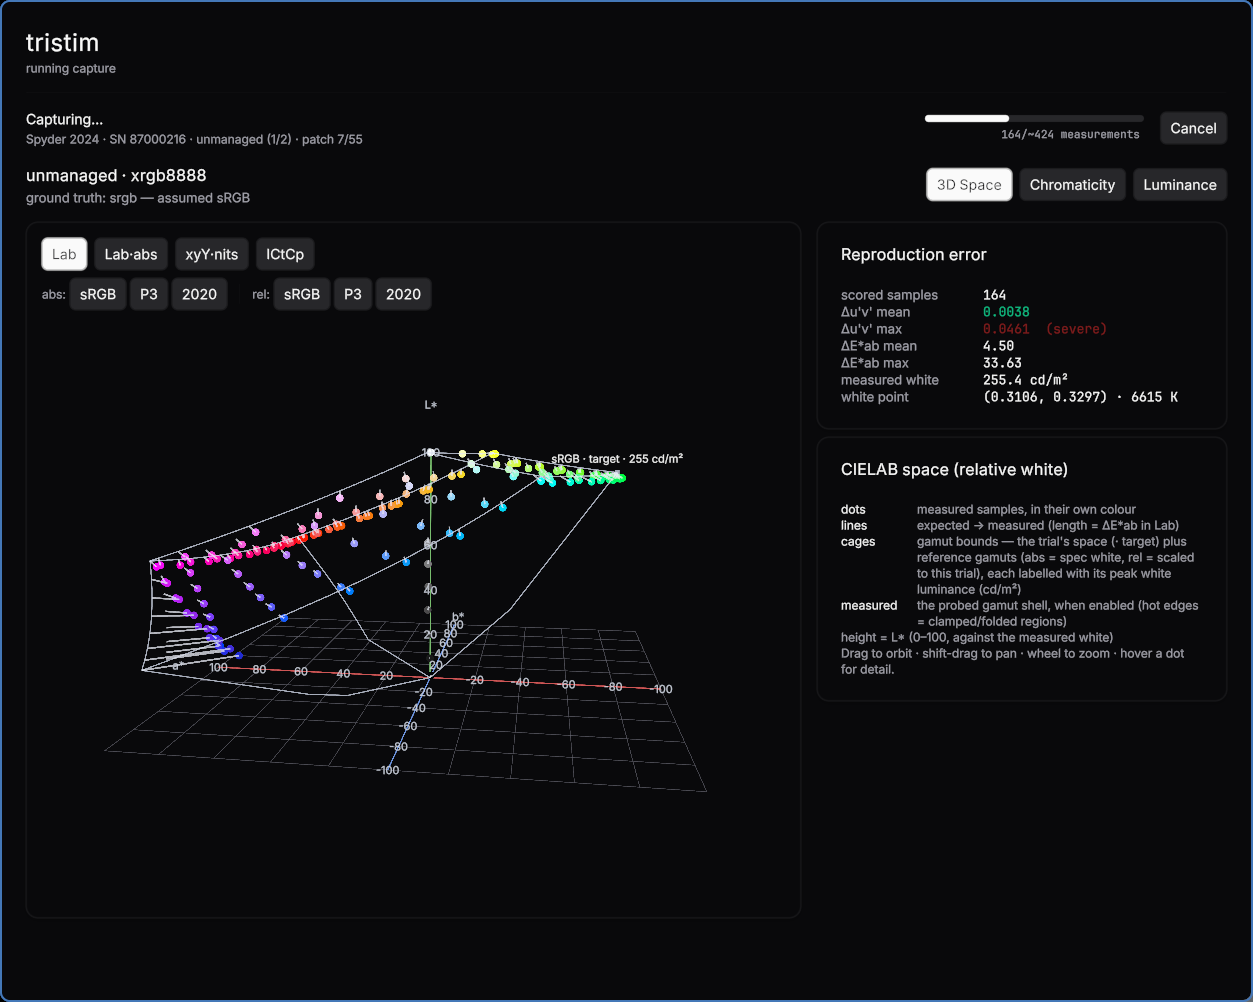
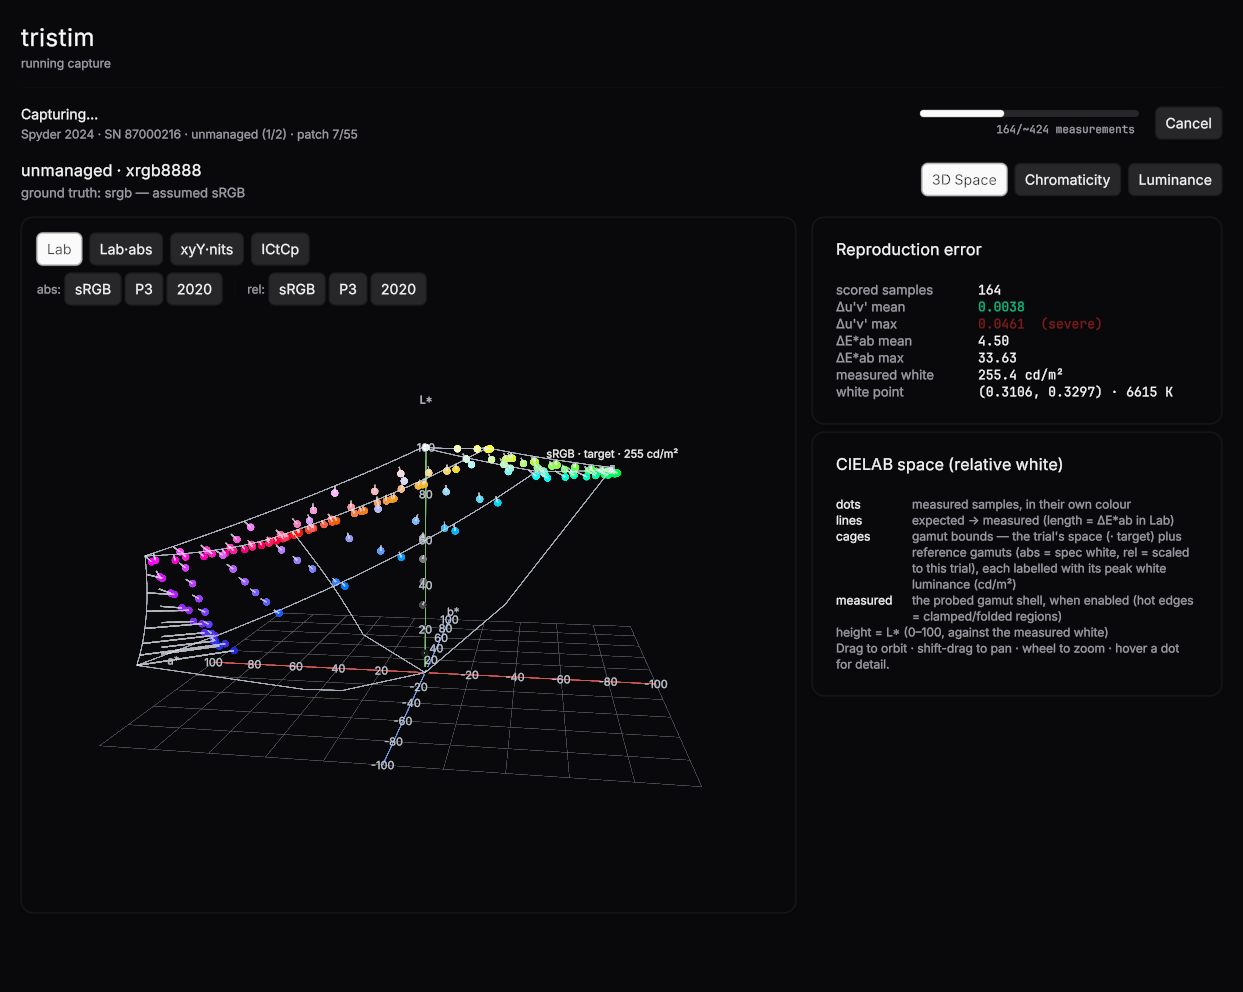
readme: add Requirements/Installing sections, refresh crates.io status
- tristim-driver and tristim-display are published now, not "headed to
  crates.io"; link the crates.io pages
- new Requirements section: wlr-layer-shell required (GNOME does not
  implement it), wp_color_management_v1 only for HDR/managed surfaces
- new Installing section: AUR package, build-from-source, with the udev
  rule setup folded in as the from-source step
- updated hero screenshot

diff --git a/README.md b/README.md
@@ -12,11 +12,12 @@ the colorimeter works through the remaining patches](assets/capture-3d.png)
 
 tristim has two faces:
 
-- **Reusable crates.** `tristim-driver` (the colorimeter hardware layer) and
-  `tristim-display` (the Wayland test-patch client) carry no
-  compositor-specific or tool-specific assumptions and are designed to be
-  consumed standalone — e.g. by closed-loop display calibration tools. Other
-  projects already depend on them as git Cargo dependencies.
+- **Reusable crates.** [`tristim-driver`](https://crates.io/crates/tristim-driver)
+  (the colorimeter hardware layer) and
+  [`tristim-display`](https://crates.io/crates/tristim-display) (the Wayland
+  test-patch client) are published on crates.io, carry no compositor-specific
+  or tool-specific assumptions, and are designed to be consumed standalone —
+  e.g. by closed-loop display calibration tools.
 - **A standalone compositor color-validation tool.** Point it at a display,
   let it drive test patches through the compositor's normal client path, and
   measure what the panel actually emits. It reports where color reproduction
@@ -91,7 +92,7 @@ downstream against the recorded facts.
   stats). Carries the workspace's heaviest dependency tree (damascene →
   wgpu/winit); `cargo run -p tristim-gui` (see its README).
 
-`tristim-driver` and `tristim-display` are headed to crates.io; the other
+`tristim-driver` and `tristim-display` are published on crates.io; the other
 crates are internal libraries behind the two applications. The applications
 ship together as one Arch package — see
 [`packaging/`](packaging) for the AUR `PKGBUILD` (both binaries, the udev
@@ -111,10 +112,33 @@ with a client's color request, so the resulting characterization is an
 honest check on the compositor's pipeline rather than a measurement of a
 bypassed one.
 
-## Setup — udev rule
+## Requirements
+
+- Linux, and a Wayland compositor that implements `wlr-layer-shell`
+  (wlroots-based compositors and KDE Plasma do; GNOME does not).
+- For HDR and color-managed measurements, the compositor must additionally
+  implement `wp_color_management_v1`. SDR-unmanaged captures work without it.
+- A supported colorimeter from the table above.
+
+## Installing
+
+On Arch Linux, the [`tristim` AUR package](https://aur.archlinux.org/packages/tristim)
+installs both binaries, the udev rule, and the desktop entry — no further
+setup needed.
+
+Elsewhere, build from source:
+
+```sh
+cargo build --release -p tristim-cli -p tristim-gui
+# binaries land in target/release/{tristim,tristim-gui}
+```
+
+then install the udev rule by hand:
+
+### udev rule
 
 The colorimeters are vendor-class USB devices that need explicit access for
-non-root users:
+non-root users. From the repository root:
 
 ```sh
 sudo cp 50-tristim.rules /etc/udev/rules.d/
@@ -123,7 +147,8 @@ sudo udevadm control --reload
 ```
 
 After that the device is accessible to your logged-in user via
-systemd-logind's `uaccess` tag — no group membership needed.
+systemd-logind's `uaccess` tag — no group membership needed. (The AUR
+package ships this rule already.)
 
 ## Affiliation
 